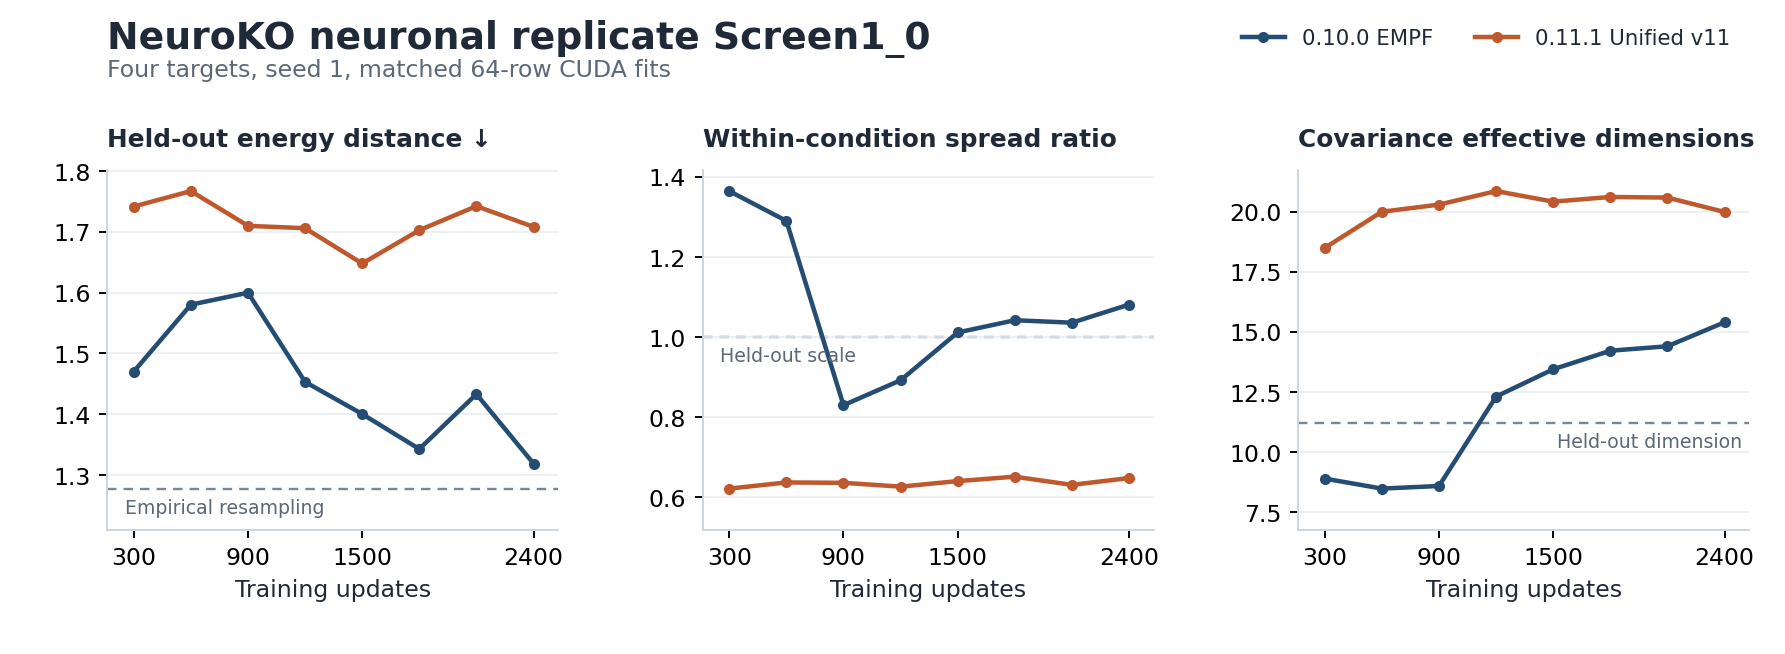
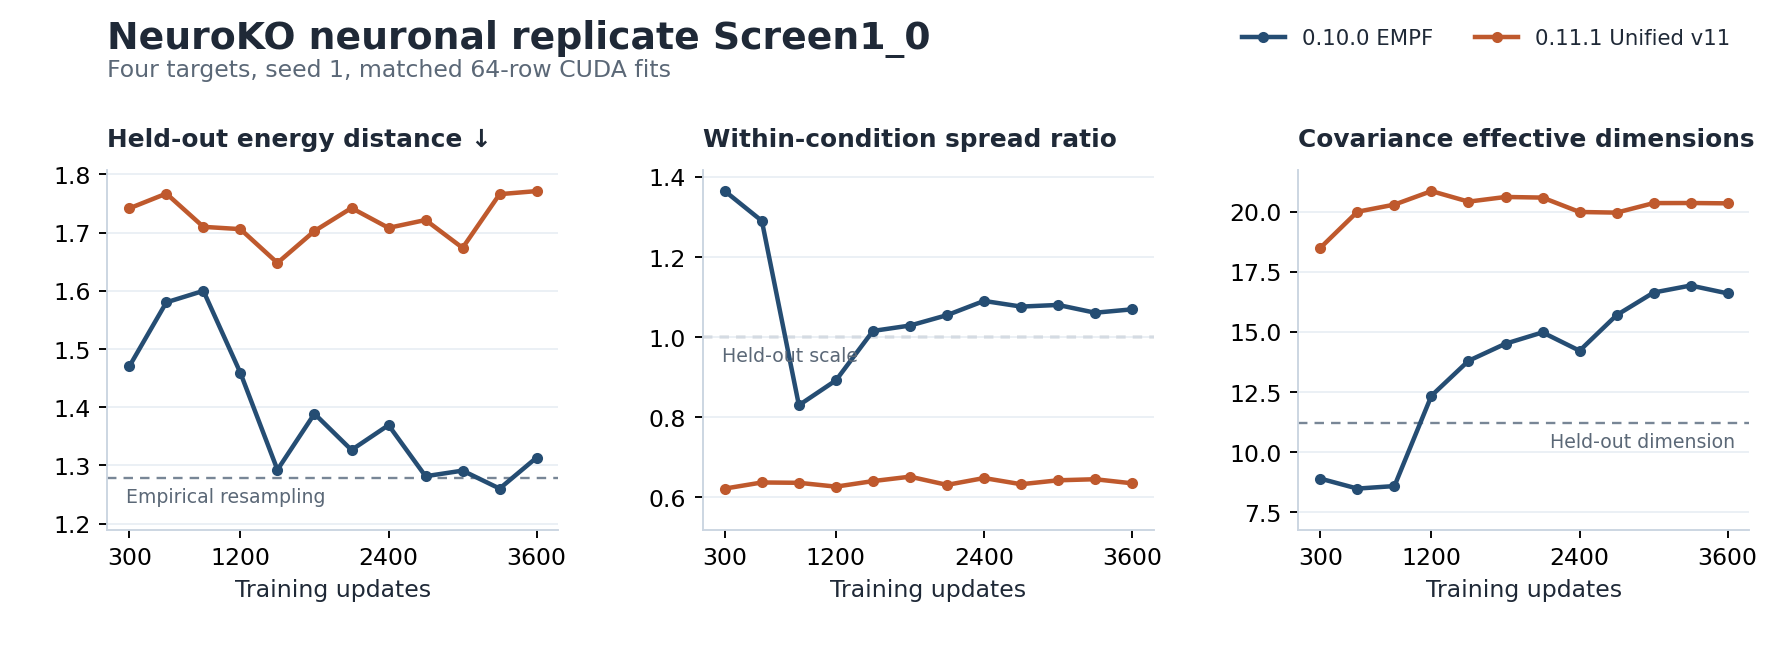
Compare matched NeuroKO recipes at 3600 CUDA updates

diff --git a/paper_watch/notes/neuroko_particlegan_0111_gpu_lr.md b/paper_watch/notes/neuroko_particlegan_0111_gpu_lr.md
@@ -106,11 +106,27 @@ The stock preset's energy distance fell by 6.9% between 300 and 600 updates, and
 
 One additional replay on `Screen1_0` used seed 1 and scored every 300 updates. The two arms reproduced their earlier 300- and 600-update scores within 0.001%. The 1,200-update EMPF energy scores were 1.473 in the first replay and 1.453 in this longer replay. All values below describe the single longer run per recipe.
 
-![Neuronal held-out energy distance, within-target spread, and effective dimensions through 2,400 training updates](neuroko_cuda_duration.png)
-
 EMPF rose from 1.343 at 1,800 updates to 1.433 at 2,100, then reached its lowest energy distance of 1.319 at 2,400. Unified v11 reached 1.648 at 1,500 and ended at 1.708. At 2,400, Unified v11's within-target spread was 0.648× the held-out spread and EMPF's was 1.081×. Unified v11's variance was distributed across more effective dimensions (20.0 versus 15.4 for EMPF and 11.2 in the held-out data). The covariance participation ratio is the squared trace divided by the sum of squared covariance entries. It measures the number of directions sharing the variance. The spread ratio measures the square root of total generated variance divided by total observed variance.
 
 The configured learning rates remained constant. The generator's checkpointed `ema_func_gain` ranged from 0.881 to 1.000 at the eight measured updates, and the critic's was 1.000 at each checkpoint. The generator's last-step gain was 0.840 at update 2,400. The optimizer applies a step-specific gain in addition to its configured rate. Below an `ema_func_gain` of 0.75 it also incorporates the EMA into the next generator step's scale before the displacement probe. [Optimizer source](https://github.com/HyperGAN/ParticleGAN/blob/d5dec2fe005305082acf382f0939a4bdb51c7131/particlegan/_unified_v11/optimizer.py) · [Checkpoint metrics and gains](neuroko_cuda_duration.json)
+
+## Neuronal comparison at 3,600 updates
+
+The 2,400-update runs saved scores only. Both releases were retrained from seed 1 on the same neuronal holdout with the same 64-row batches, prior, and learning rates as the preceding matched comparison. They ran on separate shared RTX A6000s. Energy distances are means across four targets.
+
+| Updates | 0.10.0 EMPF ↓ | 0.11.1 tuned Unified v11 ↓ |
+|---:|---:|---:|
+| 2,400 | 1.369 | 1.708 |
+| 2,700 | 1.281 | 1.722 |
+| 3,000 | 1.291 | 1.674 |
+| 3,300 | 1.260 | 1.766 |
+| 3,600 | 1.314 | 1.771 |
+
+![Neuronal held-out energy distance, within-target spread, and effective dimensions through 3,600 training updates](neuroko_cuda_duration.png)
+
+EMPF had lower energy distance on all four targets at 3,600. Its mean rose from 1.260 at 3,300 to 1.314 at 3,600, finishing 25.8% below tuned Unified v11.
+
+At 3,600 updates, the generated-to-observed spread ratio was 1.070 for EMPF and 0.635 for Unified v11. The covariance effective dimensions were 16.6 and 20.4, respectively, compared with 11.2 in the held-out cells. Empirical resampling scored 1.278 on energy distance. [Checkpoint and per-target results](neuroko_cuda_duration.json)
 
 ## Reproduce
 
@@ -168,4 +184,4 @@ CUDA_VISIBLE_DEVICES=0 OPENBLAS_NUM_THREADS=2 OMP_NUM_THREADS=2 \
   --out paper_watch/data/neuroko/lr-cuda/duration/Screen1_0-unified_v11-stock.json
 ```
 
-For the longer neuronal replay, append `--checkpoints 300 600 900 1200 1500 1800 2100 2400` to the fixed-rate command. Use the separately installed 0.10.0 release with `--recipe empf --rate 0.005` for the EMPF replay. Choose a different output path for each fit.
+For the longer neuronal replay, append `--checkpoints 300 600 900 1200 1500 1800 2100 2400 2700 3000 3300 3600` to the fixed-rate command. Use the separately installed 0.10.0 release with `--recipe empf --rate 0.005` for the EMPF replay. Choose a different output path for each fit.
